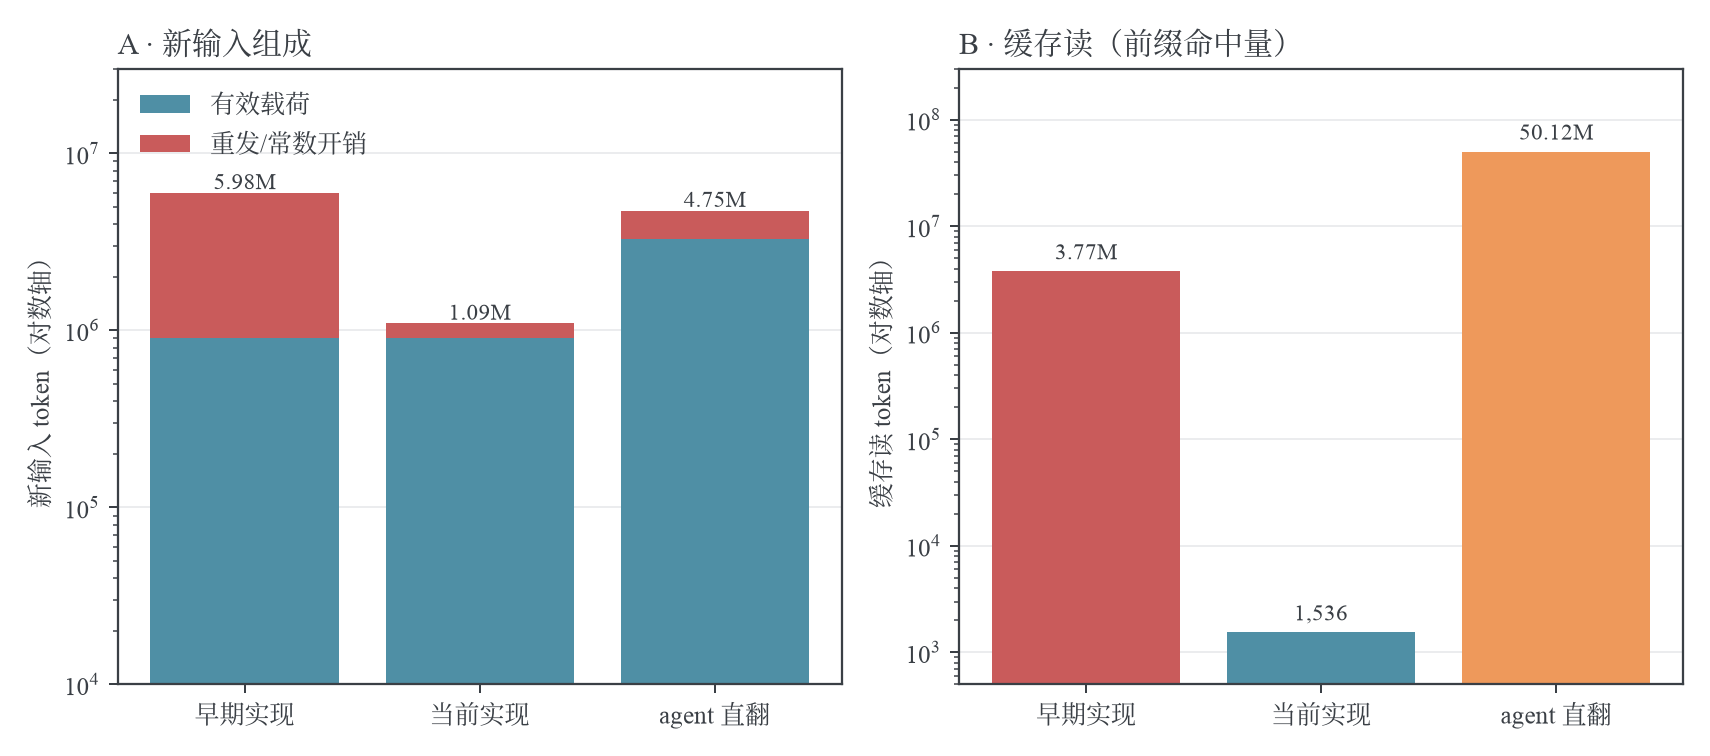
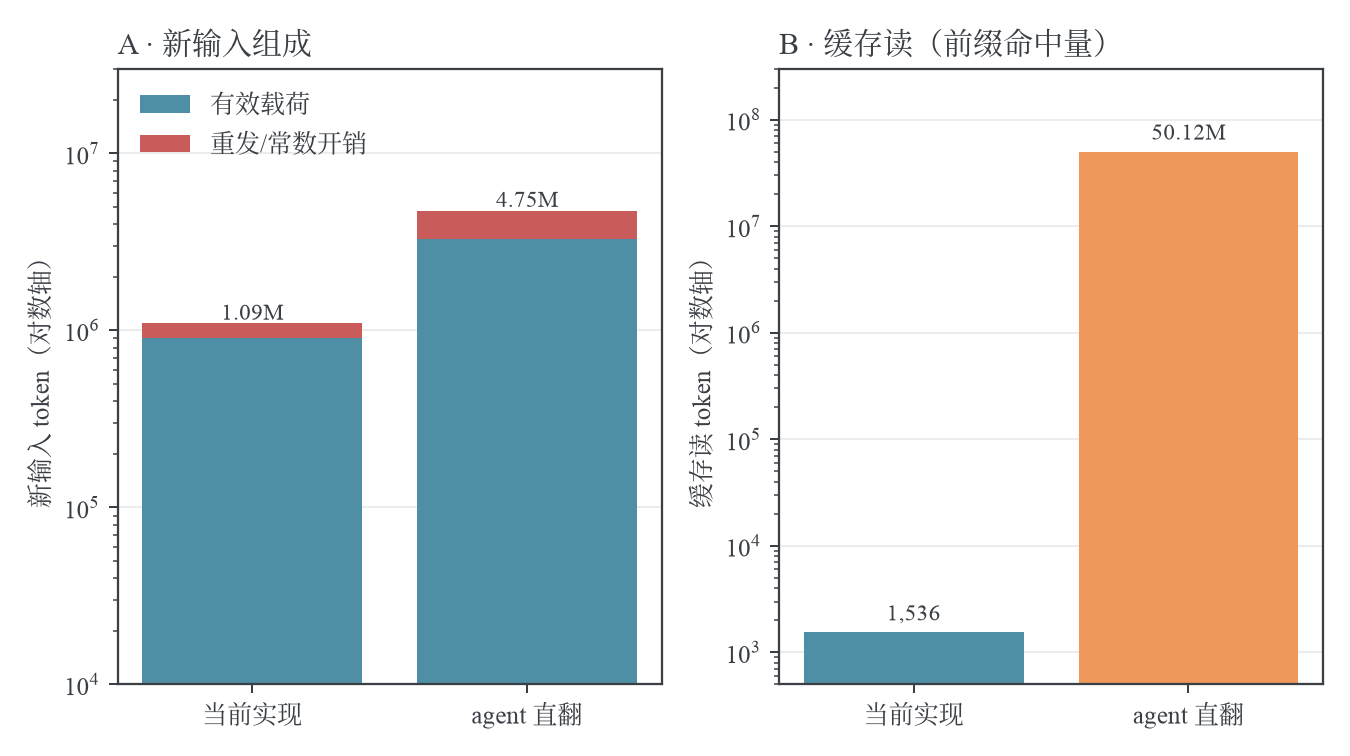
docs(methods): token-economy 对照面收敛为两路——早期实现退出表格与图组
总量/逐篇/组成三表与三张图只保留 agent 直翻 vs 当前实现；早期实现恒等表
数据移出对照面，仅留 §3.3 机制分析与 data/ 存档字段。

diff --git a/docs/research/methods/token-economy-2026-10-03/make_figs.py b/docs/research/methods/token-economy-2026-10-03/make_figs.py
@@ -1,7 +1,8 @@
 """token-economy-2026-10-03 图组再生脚本。
 
-输入：data/per-paper-tokens.json（逐篇三方账）+ data/ekg-19506.json
-（2609.19506 逐调用 [in, cr, out] 行）。产物：charts/*.png。
+输入：data/per-paper-tokens.json（逐篇账，含早期实现存档字段，图面只绘
+当前实现与 agent 两路）+ data/ekg-19506.json（2609.19506 逐调用
+[in, cr, out] 行）。产物：charts/*.png。
 运行：uv run --with matplotlib python make_figs.py
 """
 
@@ -20,8 +21,8 @@ apply_rc("paper")
 DATA = json.loads((HERE / "data" / "per-paper-tokens.json").read_text())
 EKG = json.loads((HERE / "data" / "ekg-19506.json").read_text())
 PAPERS = DATA["paper"]
-LABELS = {"early": "早期实现", "current": "当前实现", "agent": "agent 直翻"}
-COLORS = {"early": HUES["vcoral"], "current": HUES["vteal"], "agent": HUES["vorange"]}
+LABELS = {"current": "当前实现", "agent": "agent 直翻"}
+COLORS = {"current": HUES["vteal"], "agent": HUES["vorange"]}
 
 
 def _short(pid: str) -> str:
@@ -31,11 +32,11 @@ def _short(pid: str) -> str:
 def fig_per_paper() -> None:
     fig, (a, b) = plt.subplots(1, 2, figsize=(11.5, 4.2))
     x = range(len(PAPERS))
-    w = 0.27
-    for i, arm in enumerate(("early", "current", "agent")):
+    w = 0.38
+    for i, arm in enumerate(("current", "agent")):
         vals = [DATA[arm][p]["input"] for p in PAPERS]
         a.bar(
-            [t + (i - 1) * w for t in x],
+            [t + (i - 0.5) * w for t in x],
             vals,
             width=w,
             color=COLORS[arm],
@@ -43,7 +44,7 @@ def fig_per_paper() -> None:
         )
         calls = [DATA[arm][p]["calls"] for p in PAPERS]
         b.bar(
-            [t + (i - 1) * w for t in x],
+            [t + (i - 0.5) * w for t in x],
             calls,
             width=w,
             color=COLORS[arm],
@@ -67,15 +68,13 @@ def fig_per_paper() -> None:
 
 
 def fig_composition() -> None:
-    fig, (a, b) = plt.subplots(1, 2, figsize=(9.5, 4.2))
-    arms = ("early", "current", "agent")
+    fig, (a, b) = plt.subplots(1, 2, figsize=(7.5, 4.2))
+    arms = ("current", "agent")
     payload = {
-        "early": 902_843,
         "current": 902_843,
         "agent": 3_298_789,
     }
     overhead = {
-        "early": 5_981_717 - 902_843,
         "current": 1_094_448 - 902_843,
         "agent": 1_450_083,
     }
@@ -117,10 +116,9 @@ def fig_composition() -> None:
 
 
 def fig_ekg() -> None:
-    fig, axes = plt.subplots(3, 1, figsize=(10, 6.8), sharex=False)
+    fig, axes = plt.subplots(2, 1, figsize=(10, 4.8), sharex=False)
     spec = [
         ("agent", "agent 直翻 · 308 次调用"),
-        ("early", "早期实现 · 74 次调用"),
         ("current", "当前实现 · 74 次调用"),
     ]
     for ax, (key, title) in zip(axes, spec, strict=True):
@@ -128,13 +126,6 @@ def fig_ekg() -> None:
         for i, (inp, cr, _out) in enumerate(rows):
             if key == "agent":
                 color = HUES["vorange"] if cr == 0 else HUES["vgold"]
-            elif key == "early":
-                if inp > 50_000:
-                    color = HUES["vcoral"]
-                elif cr > 0:
-                    color = HUES["vgold"]
-                else:
-                    color = HUES["vteal"]
             else:
                 color = HUES["vteal"]
             ax.vlines(i, 1, inp, color=color, linewidth=1.1)
@@ -151,15 +142,6 @@ def fig_ekg() -> None:
         handles=[
             Line2D([], [], color=HUES["vgold"], lw=2, label="增量（历史前缀命中缓存）"),
             Line2D([], [], color=HUES["vorange"], lw=2, label="全量重发（缓存失守）"),
-        ],
-        loc="upper right",
-        fontsize=8,
-    )
-    axes[1].legend(
-        handles=[
-            Line2D([], [], color=HUES["vcoral"], lw=2, label="恒等表全价重发（>50k）"),
-            Line2D([], [], color=HUES["vgold"], lw=2, label="缓存命中（仅 user 载荷）"),
-            Line2D([], [], color=HUES["vteal"], lw=2, label="其余调用"),
         ],
         loc="upper right",
         fontsize=8,

diff --git a/docs/research/methods/README.md b/docs/research/methods/README.md
@@ -20,7 +20,7 @@
 | [2026-10-02-e2e-eval-holdout200.md](2026-10-02-e2e-eval-holdout200.md)                             | holdout-200 冻帧全链路评测：抽样设计/逐 stage 终态账/fixloop 修复判决面/绝版件死因归因/付费账——zh 交付 85.5%，e-era CS 覆盖缺口与 CS 专项帧动机                |
 | [2026-10-02-compilecensus-5000.md](2026-10-02-compilecensus-5000.md)                               | 5000 篇原文直编普查：缺件面现状——missing_file 占 fail 92%、91% 撞件 vendor 已备、死因集中 2012 前物理/天文绝版宏包，CS 缺件率 4.7%                             |
 | [2026-10-03-e2e-eval-cs200.md](2026-10-03-e2e-eval-cs200.md)                                       | 新 CS 论文 200 篇专项冻帧评测：zh 交付 95.5%（对通用帧 +10pt）、fixloop 51 试 50 救、不可交付 78% 压在 xlat 块故障——编译链对新 CS 近无损                       |
-| [token-economy-2026-10-03/](token-economy-2026-10-03/)                                             | token 用量三方解剖：当前实现 vs agent 直翻逐篇账（新输入 23%、总输入 2.0%）、输入组成三块分解、占位符重头篇逐调用剖析与报文实例、生产 200 篇口径交叉验证       |
+| [token-economy-2026-10-03/](token-economy-2026-10-03/)                                             | token 用量两路解剖：当前实现 vs agent 直翻逐篇账（新输入 23%、总输入 2.0%）、输入组成分解、占位符重头篇逐调用剖析与报文实例、生产 200 篇口径交叉验证           |
 
 ## 阅读建议
 
